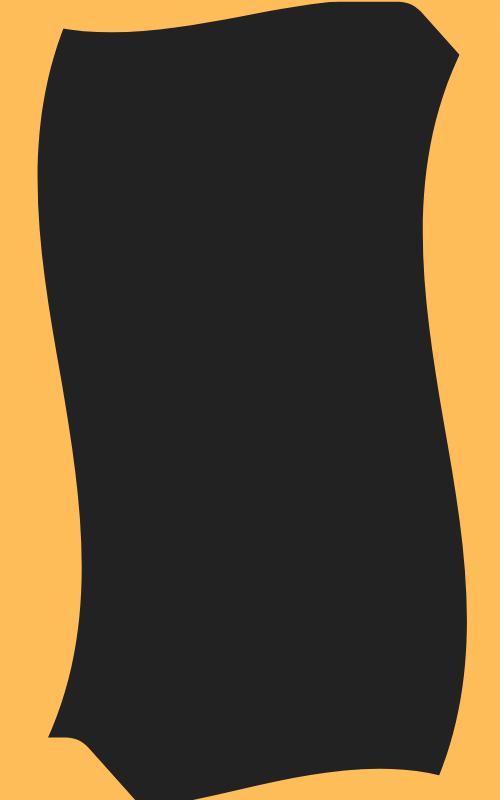
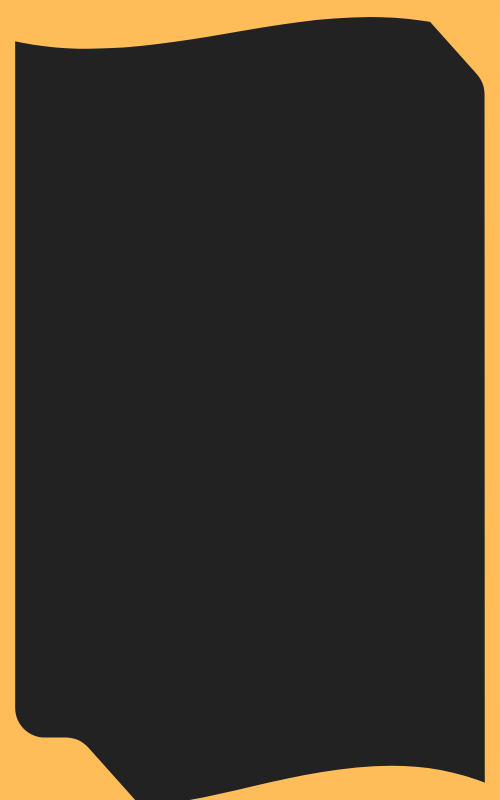
css

Changed region(s): [[0.03, 0.0, 0.87, 0.9375], [0.69, 0.0625, 0.99, 1.0]]

diff --git a/style.css b/style.css
@@ -468,7 +468,7 @@ section h1 {
   background-size: cover;
   background-repeat: no-repeat;
 
-  height: 100vh;
+  height: auto;
   width: 100vw;
 }
 @media (max-width: 768px){
@@ -479,9 +479,8 @@ section h1 {
     background-repeat: no-repeat;
   
     height: auto;
-    width: 100vw;
-    margin: 0;
-    
+    width: 1;
+ 
   }
 }
 
